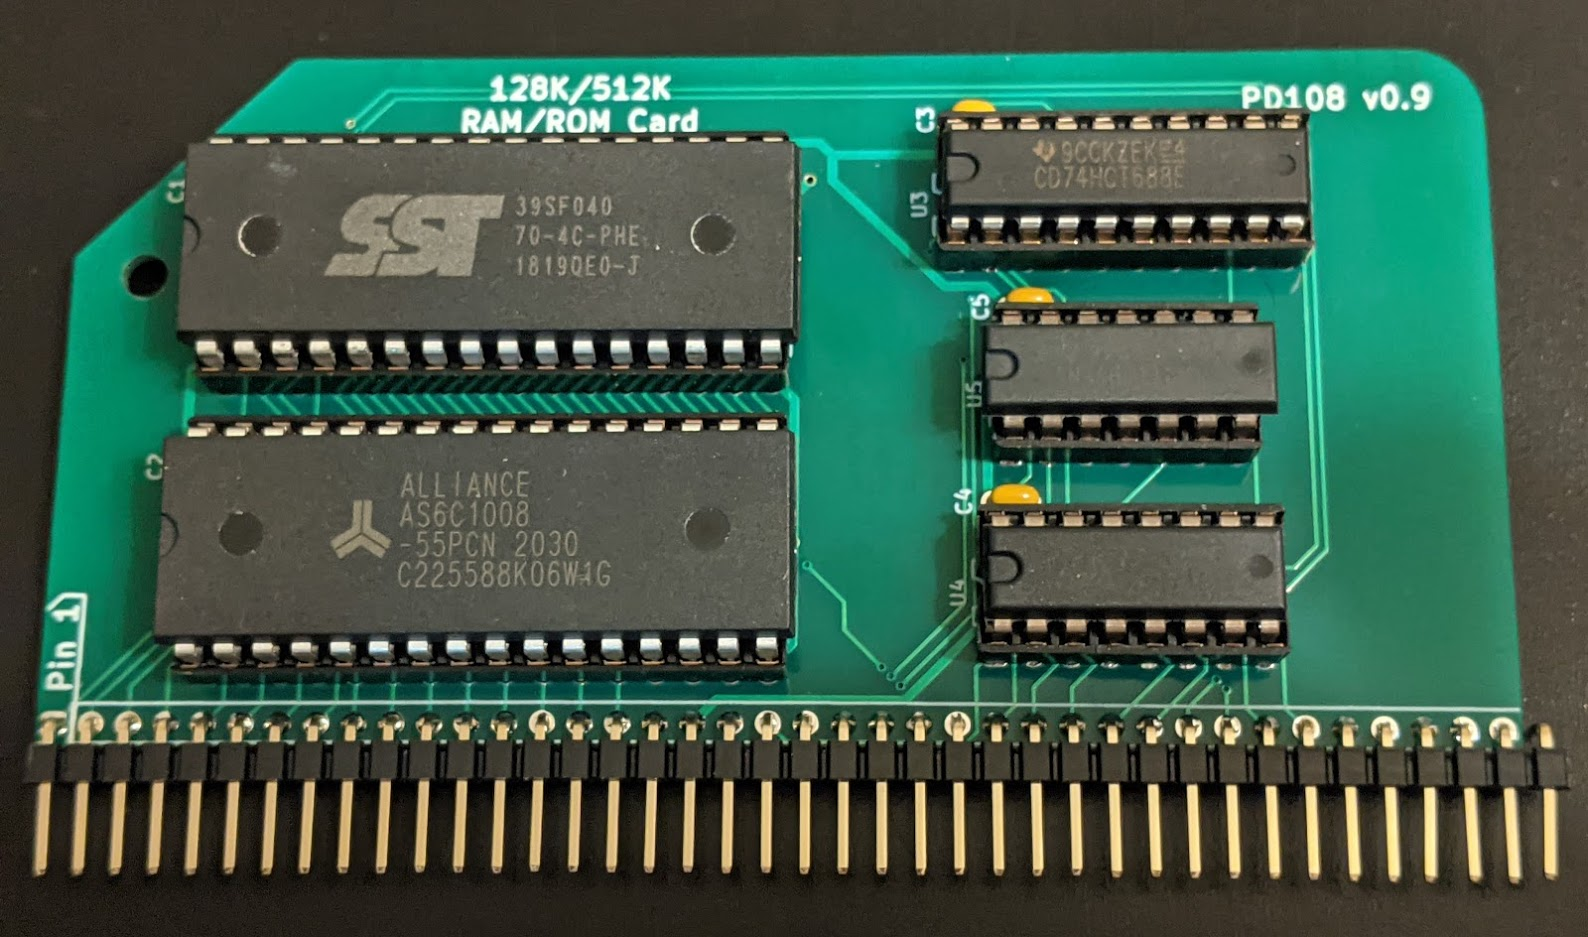
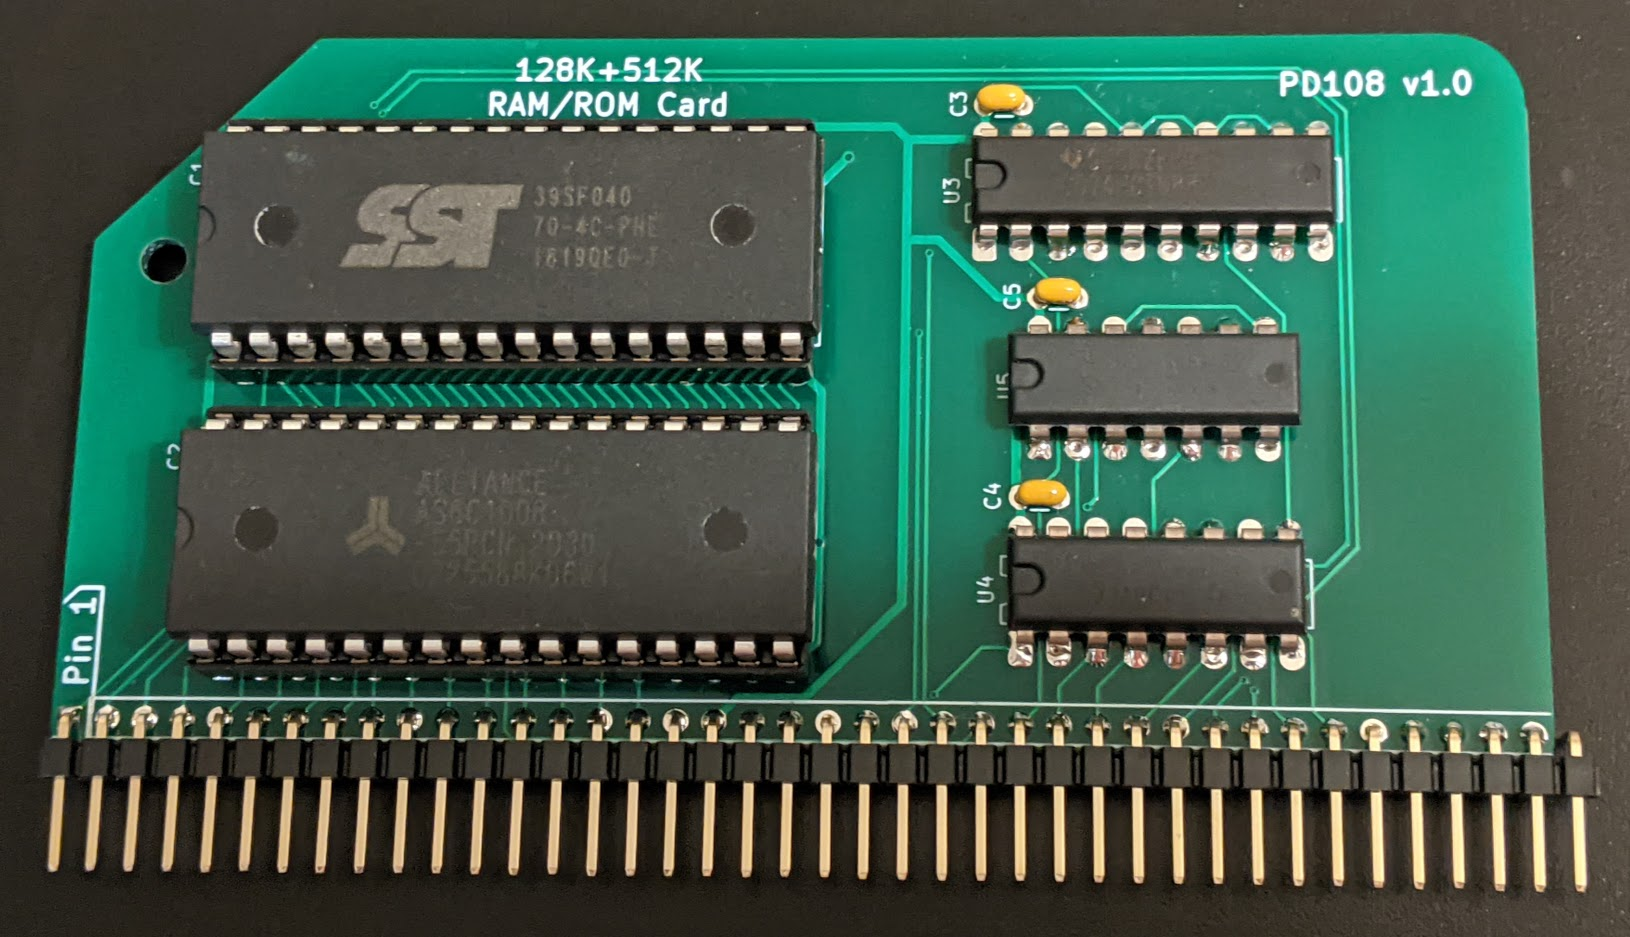
Update picture to current version

diff --git a/README.md b/README.md
@@ -1,7 +1,6 @@
 # rc-640k
  128K+512K RAM/ROM card for RC2014
 ![Assembled PD108](/img/assembled.jpg)
-(version 0.9 shown, current version 1.0 has only minor layout changes)
 
 ## Overview
 This RC2014-compatible board provides RAM and flash ROM, software-pageable in 32k pages. 16 ROM or 4 RAM pages may be paged into the lower 32k of Z80 memory. This paging scheme is compatible with Wayne Warthen's [RomWBW](https://github.com/wwarthen/RomWBW).
@@ -28,7 +27,7 @@ MPCL_RAM	.EQU	$78		; SBC MEM MGR RAM PAGE SELECT REG (WRITE ONLY)
 MPCL_ROM	.EQU	$7C		; SBC MEM MGR ROM PAGE SELECT REG (WRITE ONLY)
 ;
 ```
-With our new file, we can go ahead and build our ROM image. Under Windows, this is done with the following commands:
+With our new file, we can go ahead and build our ROM image. Under Windows, this is done with the following commands in `Source`:
 
 * `BuildShared`
   * Wait for this to complete, ignoring the harmless program origin warnings
